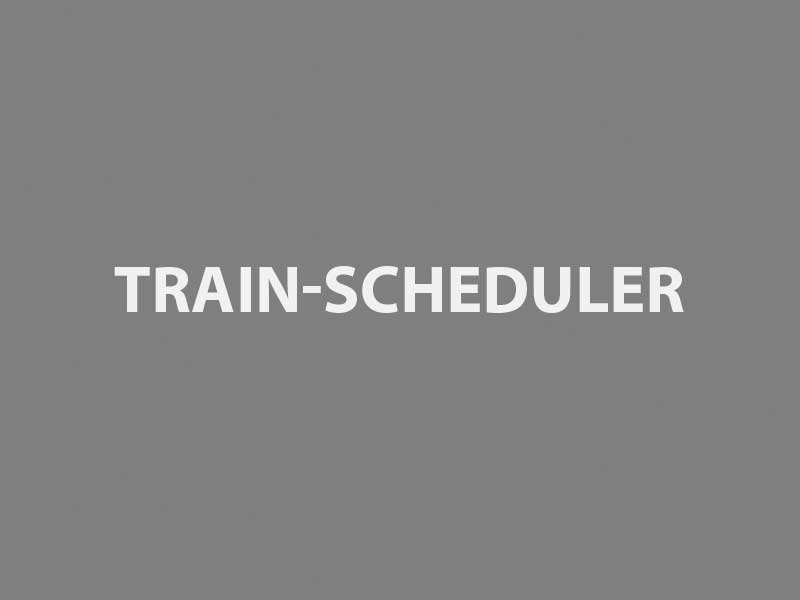
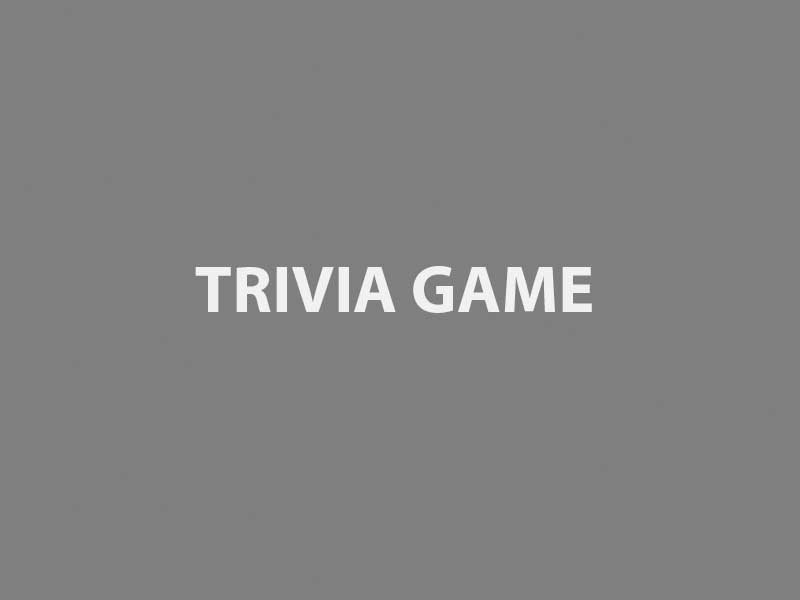
update

Changed region(s): [[0.125, 0.42, 0.875, 0.54]]

diff --git a/index.html b/index.html
@@ -276,9 +276,9 @@
                                    
                                     <img src="images/portfolio/3.jpg" alt="" />
                                     <div class="info">
-                                        <h5 class="item-title"> <a href="https://scorpidio11.github.io/Train-Scheduler/"
-                                                title="Train-Scheduler"> Train-Scheduler</a>
-                                            <a href="https://github.com/scorpidio11/Train-Scheduler" title="Train-Scheduler">
+                                        <h5 class="item-title"> <a href="https://scorpidio11.github.io/TriviaGame/"
+                                                title="Train-Scheduler"> Trivia Game </a>
+                                            <a href="https://github.com/scorpidio11/TriviaGame" title="TriviaGame">
                                                 GitHub <i class="fa fa-github"></i> </a></h5>
                                     </div>
                                   
